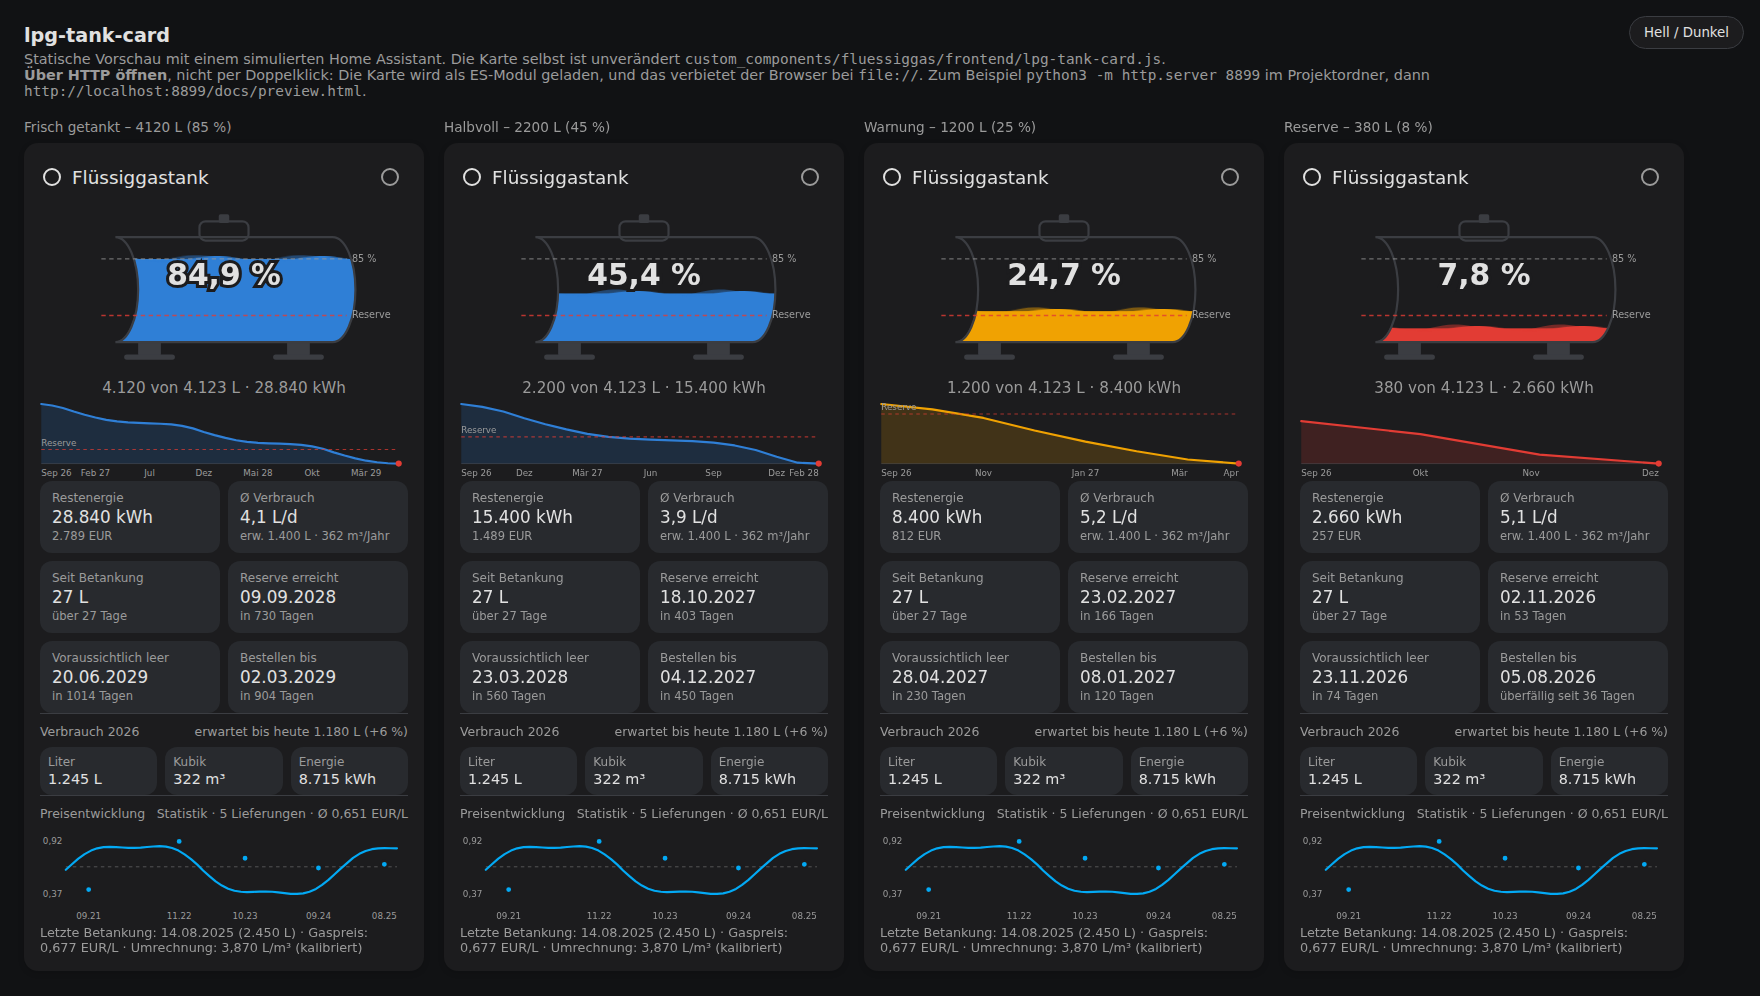
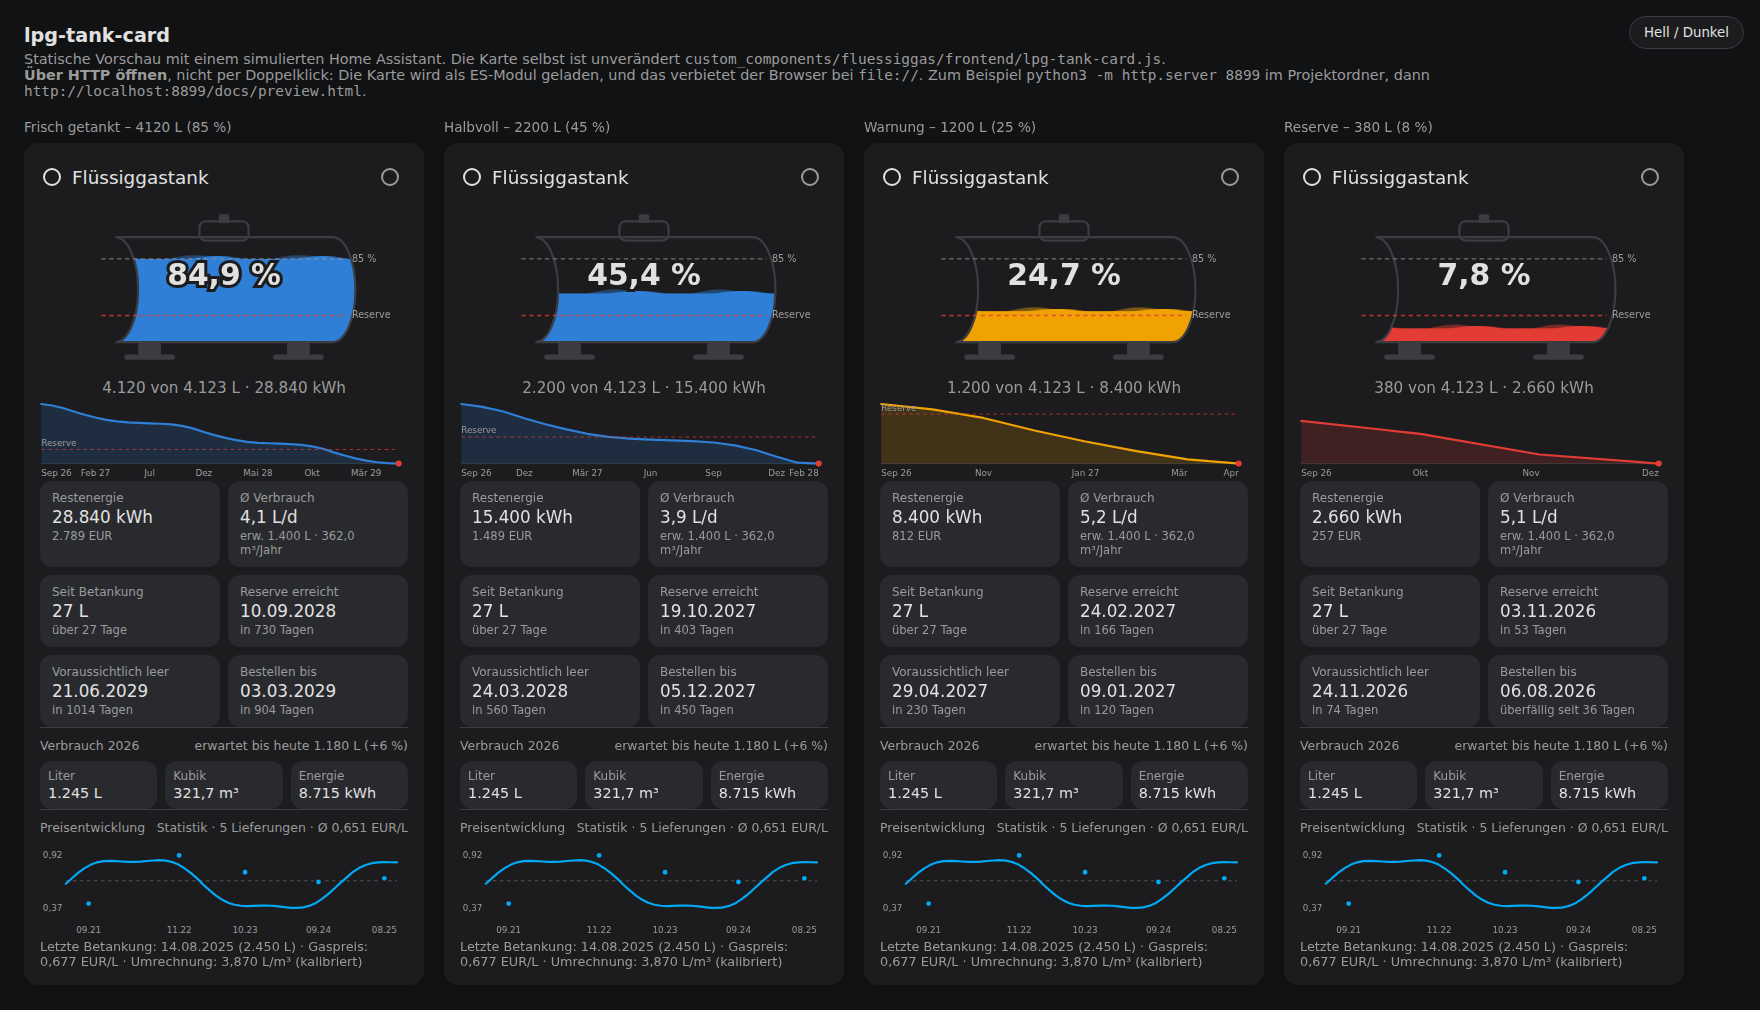
Falsches Jahr, m³ ohne Nachkommastelle, Karte komprimiert
Drei Sachen aus der Praxis.

Die Karte zeigte "Verbrauch 2025", obwohl 2026 lief. Der gerechnete Wert war
richtig, nur die Beschriftung nicht: year_start ist bewusst ein UTC-Zeitpunkt,
weil Home Assistant genau das für last_reset erwartet - und die lokale
Mitternacht des 1. Januar 2026 ist in Mitteleuropa 2025-12-31T23:00:00Z. Ein
.year darauf liefert das Vorjahr. Das Kalenderjahr wird jetzt getrennt in
Ortszeit mitgeführt, und das Attribut "seit" steht als lokale Zeit da statt
als UTC-Zeitpunkt vom Vorjahr. Ein Test hält die Falle fest.

Kubikmeter bekommen eine Nachkommastelle, in der Jahreskachel und beim
erwarteten Jahresverbrauch. Ein ganzer Kubikmeter sind rund 3,9 Liter - auf
ganze m³ gerundet lag die Anzeige um bis zu zwei Liter neben der Literzahl
gleich daneben.

Zum sporadisch nicht ladenden Dashboard auf dem iPhone: Die Karte wird jetzt
vorkomprimiert mitgeliefert. aiohttp - und damit Home Assistant - sucht bei
einer FileResponse nach einem Geschwisterfile mit der Endung .gz, sobald der
Browser die Kodierung akzeptiert, und setzt Content-Encoding samt Vary.
Gegen die echte Bibliothek gemessen: 15.726 statt 52.844 Bytes, also 70 %
weniger in genau dem Fenster, um das es geht - das Frontend gibt einer Custom
Card zwei Sekunden. Risikofrei, weil ohne die Datei oder ohne gzip im Browser
die unkomprimierte Karte ausgeliefert wird, und das Vary verhindert, dass ein
vorgeschalteter nginx die gepackte Antwort falsch weitergibt.
[…]

diff --git a/custom_components/fluessiggas/frontend/lpg-tank-card.js b/custom_components/fluessiggas/frontend/lpg-tank-card.js
@@ -908,8 +908,11 @@ class LpgTankCard extends HTMLElement {
   _erwartet(liter) {
     const attr = (this._zustand("jahresverbrauch") || {}).attributes || {};
     const kubik = attr.kubikmeter;
+    // Eine Nachkommastelle bei den m³: Ein ganzer Kubikmeter sind rund
+    // 3,9 Liter - auf ganze m³ gerundet wäre die Anzeige um bis zu zwei
+    // Liter daneben, und das fällt beim Vergleich mit der Literzahl auf.
     return `erw. ${this._fmt(liter, 0, "L")}` +
-      (kubik != null ? ` · ${this._fmt(kubik, 0, "m³")}` : "") + "/Jahr";
+      (kubik != null ? ` · ${this._fmt(kubik, 1, "m³")}` : "") + "/Jahr";
   }
 
   /**
@@ -942,7 +945,7 @@ class LpgTankCard extends HTMLElement {
     this._kachelnZeichnen(e.jahr, [
       { label: "Liter", wert: this._fmt(bisher, 0, "L"),
         zusatz: null, kennung: "jahr_liter" },
-      { label: "Kubik", wert: this._fmt(zahl(this._zustand("jahr_kubik"), null), 0, "m³"),
+      { label: "Kubik", wert: this._fmt(zahl(this._zustand("jahr_kubik"), null), 1, "m³"),
         zusatz: null, kennung: "jahr_kubik" },
       { label: "Energie", wert: this._fmt(zahl(this._zustand("jahr_energie"), null), 0, "kWh"),
         zusatz: null, kennung: "jahr_energie" },

diff --git a/tests/test_integration_files.py b/tests/test_integration_files.py
@@ -5,10 +5,13 @@
 
 from __future__ import annotations
 
+import gzip
 import json
 import re
 import sys
+from datetime import datetime, timezone
 from pathlib import Path
+from zoneinfo import ZoneInfo
 
 import yaml
 
@@ -276,6 +279,74 @@ def test_karte_zeigt_die_jahreswerte_statt_der_reichweite():
     assert '_zustand("reichweite")' in karte
     # Erwarteter Jahresverbrauch zusätzlich in m³
     assert "kubikmeter" in karte
+
+
+def test_jahr_wird_in_ortszeit_angezeigt():
+    """Die angezeigte Jahreszahl darf nicht aus dem UTC-Zeitpunkt kommen.
+
+    year_start ist bewusst ein UTC-Instant, weil Home Assistant genau das für
+    last_reset erwartet. Zum Anzeigen taugt er nicht – siehe die Falle unten.
+    """
+    sensor = _quelltext("sensor.py")
+    anfang = sensor.index('key="jahr_liter"')
+    block = sensor[anfang:]
+    block = block[: block.index("TankSensorDescription(", 10)]
+
+    assert '"jahr": s.year,' in block
+    assert "year_start.year" not in block, "Jahr aus dem UTC-Instant gelesen"
+    assert 'dt_util.as_local(s.year_start).isoformat()' in block
+
+    # Das Jahr kommt aus der Ortszeit
+    assert "year=dt_util.now().year," in _quelltext("coordinator.py")
+
+
+def test_utc_instant_des_jahresanfangs_traegt_das_vorjahr():
+    """Die Falle, wegen der es das Feld "year" überhaupt gibt.
+
+    Die lokale Mitternacht des 1. Januar ist in Mitteleuropa in UTC noch der
+    31. Dezember. Ein .year auf diesem Zeitpunkt liefert das Vorjahr – die
+    Karte zeigte deshalb "Verbrauch 2025", während 2026 lief. Der gerechnete
+    Wert war richtig, nur die Beschriftung nicht.
+    """
+    berlin = ZoneInfo("Europe/Berlin")
+    anfang_lokal = datetime(2026, 1, 1, tzinfo=berlin)
+    assert anfang_lokal.year == 2026
+    assert anfang_lokal.astimezone(timezone.utc).year == 2025
+
+
+def test_kubikmeter_werden_mit_nachkommastelle_gezeigt():
+    """Ein m³ sind rund 3,9 Liter – ganze m³ wären bis zu zwei Liter daneben."""
+    karte = (INTEGRATION / "frontend" / "lpg-tank-card.js").read_text(encoding="utf-8")
+    for stelle in ('this._fmt(kubik, 1, "m³")',
+                   'this._fmt(zahl(this._zustand("jahr_kubik"), null), 1, "m³")'):
+        assert stelle in karte, stelle
+
+
+def test_karte_wird_komprimiert_mitgeliefert():
+    """Neben der Karte muss ein aktuelles .gz liegen.
+
+    aiohttp – und damit Home Assistant – liefert das Geschwisterfile
+    automatisch aus, sobald der Browser gzip akzeptiert (mit Content-Encoding
+    und Vary: Accept-Encoding). Das drückt die Übertragung von rund 52 kB auf
+    rund 16 kB, und genau darauf kommt es an: Das Frontend gibt einer Custom
+    Card nur zwei Sekunden, bis sie sich registriert hat.
+
+    Der Inhaltsvergleich ist der eigentliche Punkt dieses Tests. Ein
+    veraltetes .gz würde stillschweigend alten Code ausliefern, und zwar nur
+    an Browser mit gzip – also praktisch an alle. Neu erzeugen mit:
+
+        python3 scripts/karte_komprimieren.py
+    """
+    karte = INTEGRATION / "frontend" / "lpg-tank-card.js"
+    gepackt = INTEGRATION / "frontend" / "lpg-tank-card.js.gz"
+    assert gepackt.is_file(), "python3 scripts/karte_komprimieren.py ausführen"
+
+    assert gzip.decompress(gepackt.read_bytes()) == karte.read_bytes(), (
+        "lpg-tank-card.js.gz ist veraltet – "
+        "python3 scripts/karte_komprimieren.py ausführen"
+    )
+    anteil = gepackt.stat().st_size / karte.stat().st_size
+    assert anteil < 0.5, f"Kompression bringt nur {anteil:.0%}"
 
 
 def test_karte_wird_mit_ausgeliefert():

diff --git a/scripts/karte_komprimieren.py b/scripts/karte_komprimieren.py
@@ -1,0 +1,47 @@
+#!/usr/bin/env python3
+"""Erzeugt lpg-tank-card.js.gz neben der Karte.
+
+    python3 scripts/karte_komprimieren.py
+
+aiohttp – und damit Home Assistant – liefert ein Geschwisterfile mit der
+Endung .gz automatisch aus, sobald der Browser gzip akzeptiert, und setzt
+dabei Content-Encoding und Vary: Accept-Encoding. Fehlt die Datei oder kann
+der Browser kein gzip, wird die unkomprimierte Karte ausgeliefert – die
+Kompression ist also reine Zugabe und kann nichts kaputt machen.
+
+Warum überhaupt: Das Frontend gibt einer Custom Card zwei Sekunden, bis sie
+sich registriert hat. Über eine schwache Mobilverbindung ist der Unterschied
+zwischen 52 kB und 11 kB genau in diesem Fenster entscheidend.
+
+mtime=0: Sonst steckt der Zeitstempel im Gzip-Kopf und die Datei ändert sich
+bei jedem Lauf, obwohl der Inhalt gleich bleibt – im Git wäre das Rauschen.
+"""
+
+from __future__ import annotations
+
+import gzip
+import sys
+from pathlib import Path
+
+KARTE = (
+    Path(__file__).resolve().parent.parent
+    / "custom_components" / "fluessiggas" / "frontend" / "lpg-tank-card.js"
+)
+
+
+def komprimieren(quelle: Path = KARTE) -> Path:
+    ziel = quelle.with_suffix(quelle.suffix + ".gz")
+    roh = quelle.read_bytes()
+    with gzip.GzipFile(filename="", mode="wb", compresslevel=9,
+                       fileobj=ziel.open("wb"), mtime=0) as datei:
+        datei.write(roh)
+    return ziel
+
+
+if __name__ == "__main__":
+    if not KARTE.is_file():
+        sys.exit(f"Karte nicht gefunden: {KARTE}")
+    ziel = komprimieren()
+    roh, klein = KARTE.stat().st_size, ziel.stat().st_size
+    print(f"{KARTE.name}: {roh:,} B  ->  {ziel.name}: {klein:,} B "
+          f"({klein / roh:.0%})".replace(",", "."))

diff --git a/custom_components/fluessiggas/coordinator.py b/custom_components/fluessiggas/coordinator.py
@@ -144,7 +144,13 @@ class TankState:
     #: Verbrauch im laufenden Kalenderjahr; None, solange der Bezugspunkt
     #: zum Jahresanfang nicht bestimmt werden konnte
     year_liters: float | None = None
+    #: Zeitpunkt des Jahresanfangs – als UTC-Instant, denn genau das erwartet
+    #: Home Assistant für last_reset. Zum Anzeigen taugt er nicht: In
+    #: Mitteleuropa ist die lokale Mitternacht des 1. Januar in UTC noch der
+    #: 31. Dezember, ein .year darauf zeigt also das Vorjahr.
     year_start: datetime | None = None
+    #: Das Kalenderjahr in Ortszeit – die Zahl, die angezeigt werden soll
+    year: int | None = None
     #: Was das Monatsprofil bis heute erwartet hätte – der Vergleichswert
     year_expected: float | None = None
 
@@ -954,6 +960,7 @@ class TankCoordinator(DataUpdateCoordinator[TankState]):
             missing_sources=fehlend,
             year_liters=round(jahr_liter, 1) if jahr_liter is not None else None,
             year_start=self.year_start(),
+            year=dt_util.now().year,
             year_expected=(
                 round(expected_to_date(self._profile, dt_util.now().date())
                       * self.correction, 1)

diff --git a/custom_components/fluessiggas/sensor.py b/custom_components/fluessiggas/sensor.py
@@ -155,8 +155,10 @@ SENSOREN: tuple[TankSensorDescription, ...] = (
         value_fn=lambda s, c: s.year_liters,
         last_reset_fn=lambda s, c: s.year_start,
         attrs_fn=lambda s, c: {
-            "jahr": s.year_start.year if s.year_start else None,
-            "seit": s.year_start.isoformat() if s.year_start else None,
+            # Beides bewusst in Ortszeit: year_start ist ein UTC-Instant, und
+            # dessen .year ist in Mitteleuropa am 1. Januar noch das Vorjahr.
+            "jahr": s.year,
+            "seit": dt_util.as_local(s.year_start).isoformat() if s.year_start else None,
             # Ohne Vergleichswert ist die Zahl schwer zu deuten: Die Heizkurve
             # ist nicht gleichmäßig über das Jahr verteilt.
             "erwartet_bis_heute": s.year_expected,

diff --git a/docs/KONZEPT.md b/docs/KONZEPT.md
@@ -271,6 +271,19 @@ Zähler das Signal für einen Reset. Die Langzeitstatistik hätte den
 Jahresverbrauch doppelt gezählt. Über die Differenz zur Summe kann das nicht
 passieren, weil die Summe selbst nie sinkt.
 
+### Die Zeitzonen-Falle beim Jahresanfang
+
+`year_start` ist ein UTC-Zeitpunkt, weil Home Assistant für `last_reset` genau
+das erwartet. Zum Anzeigen taugt er nicht: Die lokale Mitternacht des
+1. Januar 2026 ist in Mitteleuropa `2025-12-31T23:00:00Z`. Ein `.year` darauf
+liefert **2025**.
+
+Genau das ist in 2.0.0 passiert – die Karte zeigte „Verbrauch 2025", während
+2026 lief. Der gerechnete Wert war richtig, die Beschriftung nicht. Das
+Kalenderjahr wird deshalb getrennt in Ortszeit mitgeführt, und das Attribut
+`seit` steht als lokale Zeit da (`2026-01-01T00:00:00+01:00`) statt als
+UTC-Zeitpunkt vom Vorjahr.
+
 ### Warum `total` mit `last_reset` und nicht `total_increasing`
 
 Die drei Jahressensoren melden den 1. Januar ausdrücklich als `last_reset`.
@@ -392,10 +405,43 @@ Cache-Header. Der Browser lud die knapp 40 kB bei *jedem* Seitenaufruf neu. Auf
 einem beschäftigten Home Assistant – etwa direkt nach dem Start, wenn der
 Recorder arbeitet – reichen zwei Sekunden dafür nicht zuverlässig.
 
-Mit `cache_headers=True` liefert Home Assistant langlebige Cache-Header. Das
-ist hier gefahrlos, weil die URL die Version trägt (`?v=1.4.0`): Nach einem
-Update ändert sich die URL, der Browser holt die Datei neu, und dazwischen
-kommt sie aus dem lokalen Cache statt über das Netz.
+Mit `cache_headers=True` liefert Home Assistant langlebige Cache-Header
+(`public, max-age=2678400`, also 31 Tage). Das ist hier gefahrlos, weil die URL
+die Version trägt (`?v=1.4.0`): Nach einem Update ändert sich die URL, der
+Browser holt die Datei neu, und dazwischen kommt sie aus dem lokalen Cache
+statt über das Netz.
+
+### Und wenn der Cache nicht greift: 16 statt 53 kB
+
+Der Cache hilft nur beim zweiten Aufruf. Beim ersten – und nach jedem Update,
+weil die URL sich ändert – zählt die reine Übertragungszeit, und die iOS-App
+ist nach einem „nach unten ziehen" genau in diesem Fall. Seit 2.0.1 liegt
+deshalb neben der Karte ein vorkomprimiertes `lpg-tank-card.js.gz`.
+
+Ausgeliefert wird es ohne jedes Zutun: aiohttp – und damit Home Assistant –
+sucht bei einer `FileResponse` nach einem Geschwisterfile mit der Endung
+`.gz` (oder `.br`), sobald der Browser die Kodierung akzeptiert, und setzt
+`Content-Encoding: gzip` samt `Vary: Accept-Encoding`. Gemessen an der echten
+Bibliothek:
+
+| Anfrage | Übertragen | Header |
+|---|---|---|
+| `Accept-Encoding: gzip` | 15.726 B | `Content-Encoding: gzip`, `Vary: Accept-Encoding` |
+| `Accept-Encoding: identity` | 52.844 B | – |
+
+Also **70 % weniger** im entscheidenden Fenster. Und ohne Risiko: Fehlt die
+Datei oder kann der Browser kein gzip, wird die unkomprimierte Karte
+ausgeliefert. Das `Vary` verhindert, dass ein vorgeschalteter nginx die
+gepackte Antwort an einen Client ohne gzip weitergibt.
+
+Der Preis ist eine erzeugte Datei im Repository, und die könnte veralten –
+stillschweigend, denn sie würde alten Code genau an die Browser ausliefern,
+die gzip können, also an alle. Dagegen steht ein Test, der sie entpackt und
+byteweise mit der Karte vergleicht. Neu erzeugt wird sie mit:
+
+```bash
+python3 scripts/karte_komprimieren.py
+```
 
 ## Vertippt: warum Rückgängig und nicht Bearbeiten
 

diff --git a/docs/INSTALLATION.md b/docs/INSTALLATION.md
@@ -202,6 +202,7 @@ stimmt er, vorher hilft nichts – die Daten gibt es dann eben nicht.
 | Füllstand sinkt zu schnell | Faktor L/m³ – bei der nächsten Betankung die Tankuhr vorher angeben. |
 | Reichweite `unknown` | Rechnerisch mehr als sechs Jahre, oder Jahresverbrauch 0. |
 | *Verbrauch dieses Jahr* `unknown` | Keine Statistik zum 1. Januar – siehe Schritt 8. |
+| Karte erscheint sporadisch nicht (iOS-App, „nach unten ziehen") | Seit 2.0.1 wird die Karte vorkomprimiert ausgeliefert – 16 statt 53 kB. Das Frontend gibt einer Custom Card nur zwei Sekunden. Bleibt es dabei: einmal *Companion App → Frontend-Cache zurücksetzen*. |
 | Karte erscheint sporadisch nicht | Sollte seit 1.4.0 behoben sein: Die Kartendatei wird jetzt vom Browser zwischengespeichert. Das Frontend gibt einer Custom Card nur zwei Sekunden, und ohne Cache wurde sie bei jedem Seitenaufruf neu geladen. |
 | Karte nicht im Picker, „custom element doesn't exist" | Einmalig nach dem Update auf 1.2.0: Der Service Worker des Frontends liefert Seiten aus einem 24-Stunden-Cache. In der Companion-App *Einstellungen → Companion App → Frontend-Cache zurücksetzen*, im Browser Strg+F5 bzw. Websitedaten löschen. Ab 1.2.0 kommt die Karte über die Ressourcenliste (Websocket, nicht gecacht) und das Problem verschwindet. |
 | „Keine Integration gefunden" | Der Tank ist noch nicht eingerichtet. |

diff --git a/README.md b/README.md
@@ -316,6 +316,19 @@ mitliefern. Das fertige Symbol liegt in [`brands/`](brands/) samt Anleitung zum
 Eintragen. Die Symbole der Entitäten und Dienste bestimmt die Integration
 dagegen selbst – die wirken sofort.
 
+## Entwicklung
+
+Die Karte wird vorkomprimiert mit ausgeliefert – aiohttp nimmt das
+`.gz`-Geschwisterfile automatisch, sobald der Browser gzip akzeptiert. Nach
+jeder Änderung an `lpg-tank-card.js` deshalb:
+
+```bash
+python3 scripts/karte_komprimieren.py
+```
+
+Ein Test vergleicht das Archiv byteweise mit der Karte und schlägt fehl, wenn
+es veraltet ist.
+
 ## Tests
 
 ```bash
